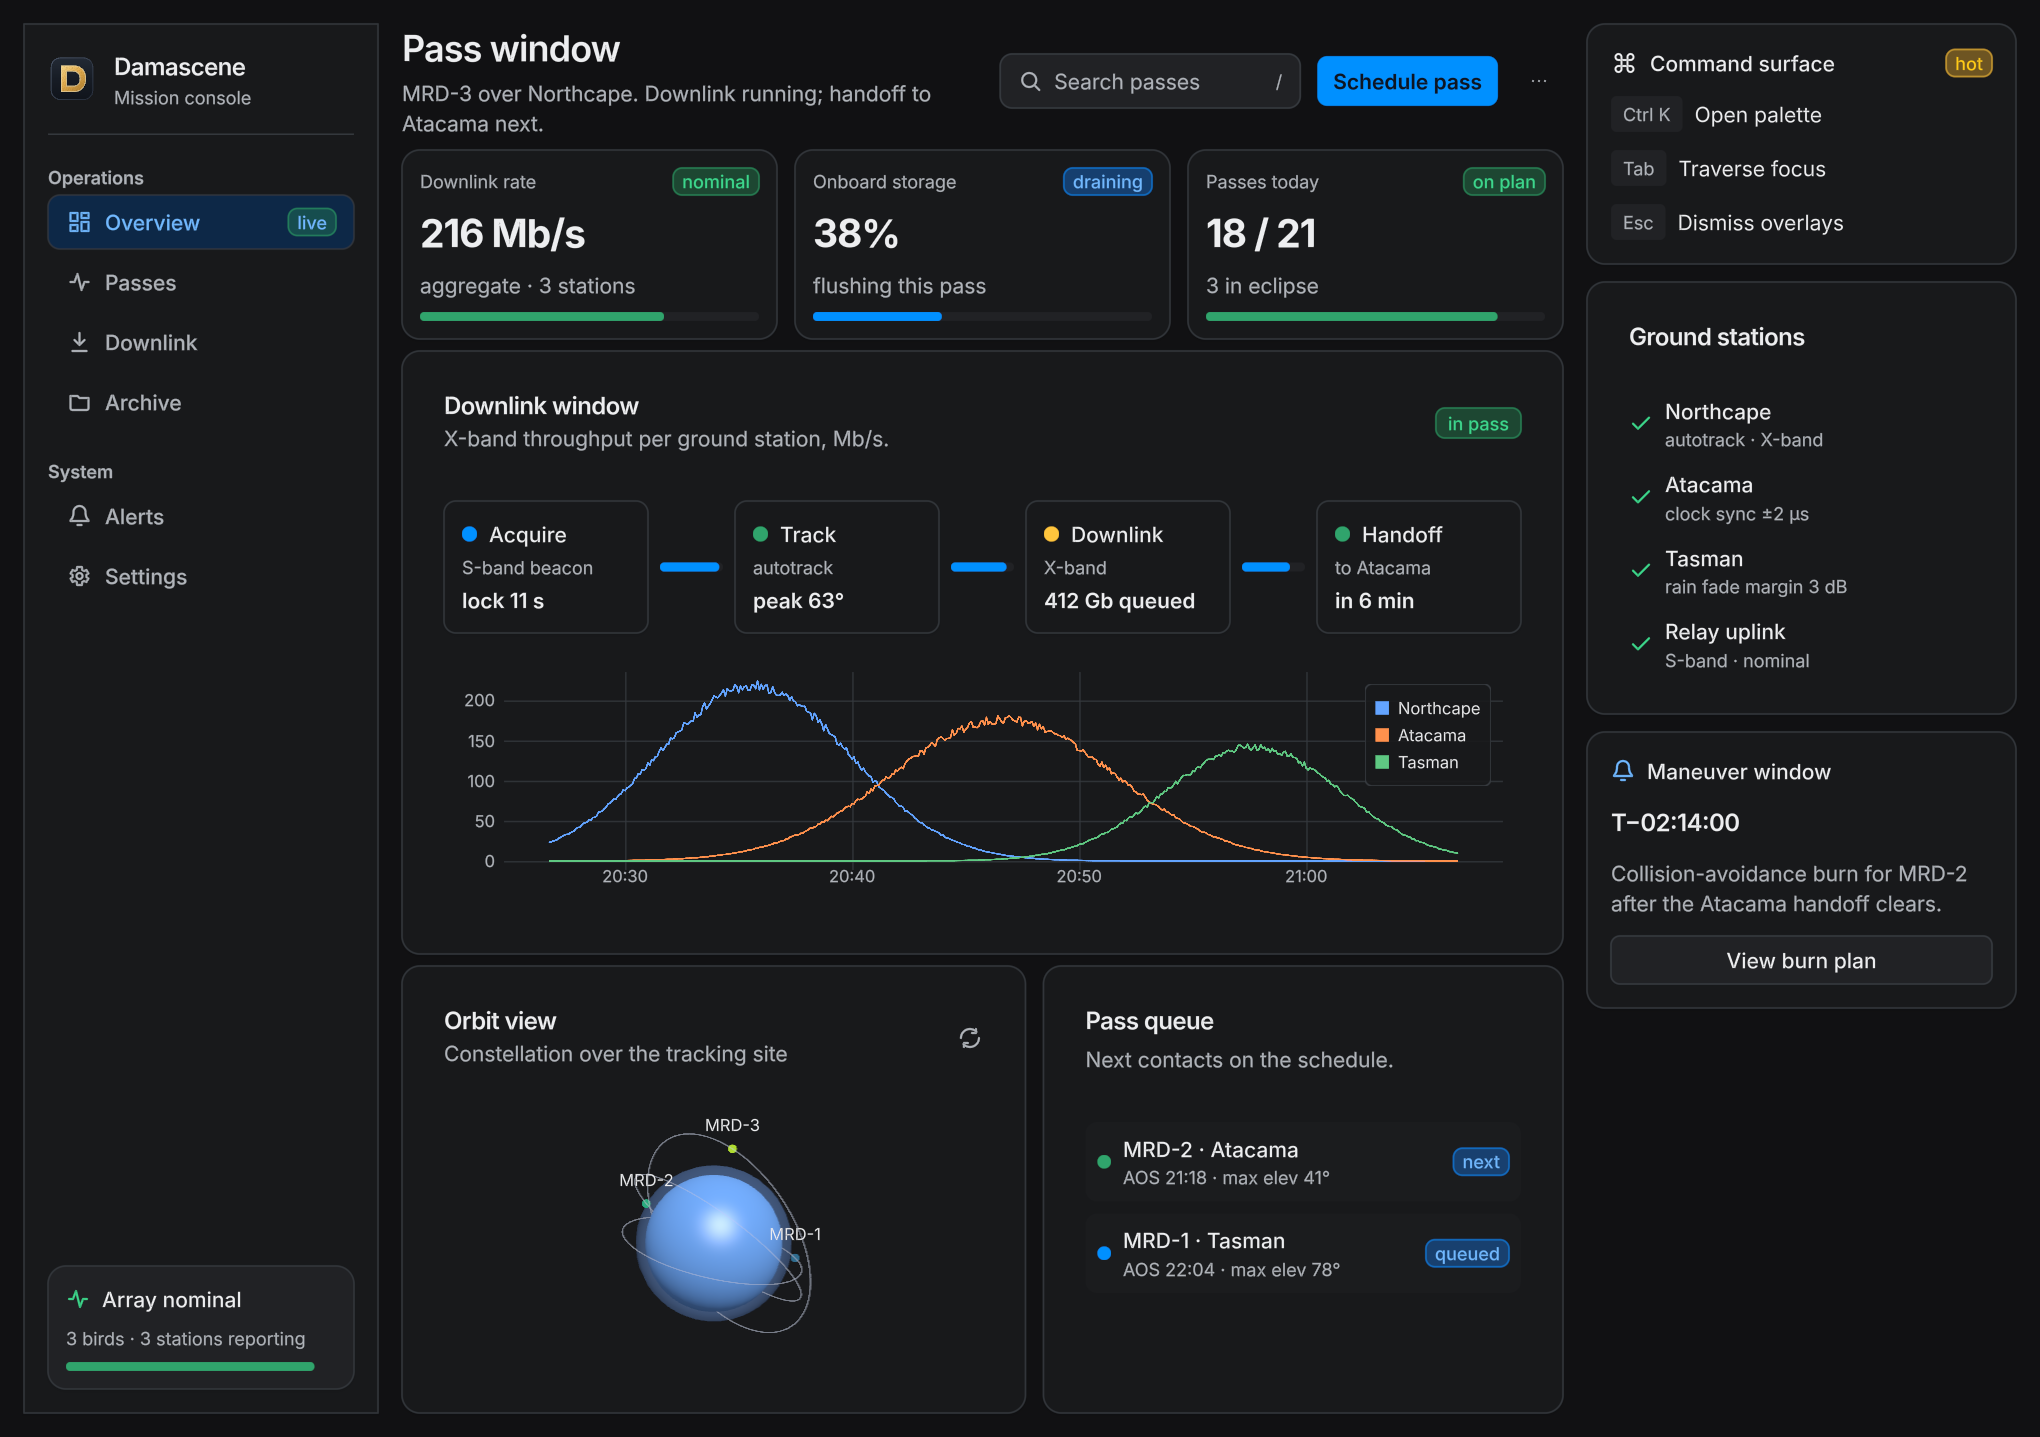
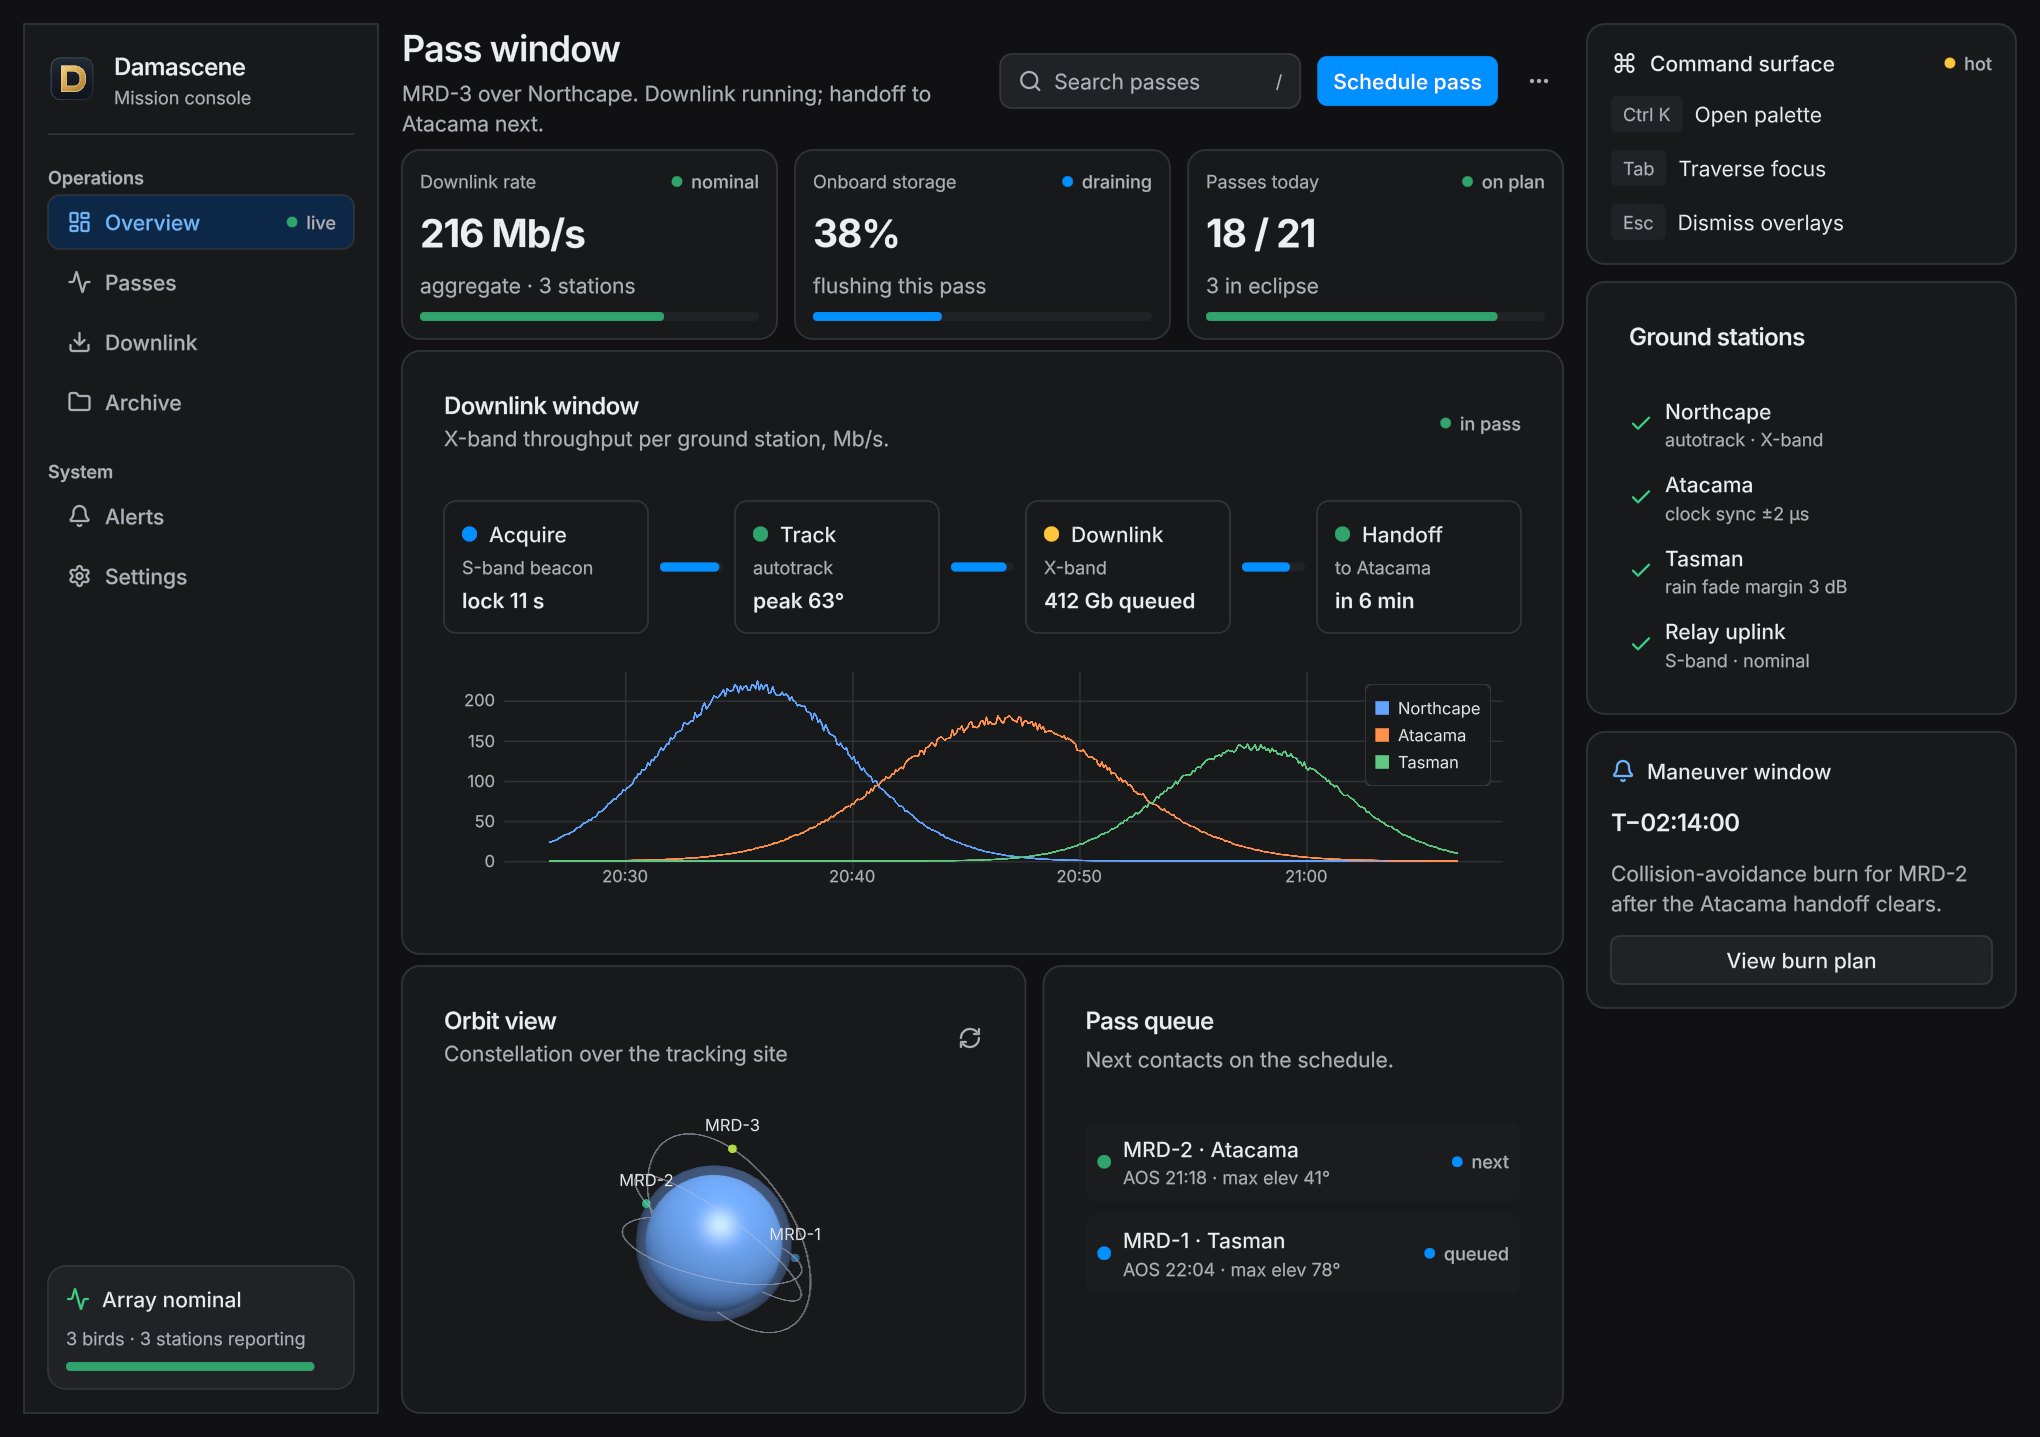
docs: the hero shows the Phase B defaults; the design record lists what landed
`assets/damascene_hero.png` re-rendered through `render_hero` after
the Phase B commits: the zinc surface step under every card, dot-plus-
text statuses in place of the pills, the white label on the primary
button, and the Lucide glyphs. `docs/POLISH_REVIEW_2026_10.md`'s
"Phase B rulings" section gains the landed commit list and the small
items still open from the review.

diff --git a/docs/POLISH_REVIEW_2026_10.md b/docs/POLISH_REVIEW_2026_10.md
@@ -477,3 +477,18 @@ Ruled by the user after the fix phase, each a visible default change:
    section primitive in core, the Lucide wholesale import, and the
    workbench crate held unpublished at 0.9.0. 0.9.0 is not released
    until the breaking set is complete.
+
+**Landed (2026-10-14, nine commits on main):** `2b04241` zinc surface
+step + white primary label; `a68c7ab` the two lint rulings (primary
+pair at 3:1, full-width rows in a vertical arrow-nav group); `02e17c8`
+neutral selected and disabled; `161d3ca` dot-plus-text badge with
+`.boxed()`; `141d0d8` underline tabs; `da2edf6` toolbar ghost rule,
+`split_button`, `icon_button_with_caption`, composite variants;
+`53a78b1` Lucide 1.57.0 wholesale by generator; `6a314b9` the
+`section` primitive; plus the re-rendered README hero. The workbench
+crate was already `publish = false`. Still open from the review's
+smaller list: `apply_metrics` idempotence on retained trees (document),
+`caret_scroll_request_for` cannot see the type scale, a `data_action`
+cell helper, the `.size()`-on-inert-role and `UnregisteredToken` lints,
+the icon gallery fixture's long labels overflowing their tiles, and a
+wasm feature gate for the 600 KB icon table if binary size bites.
